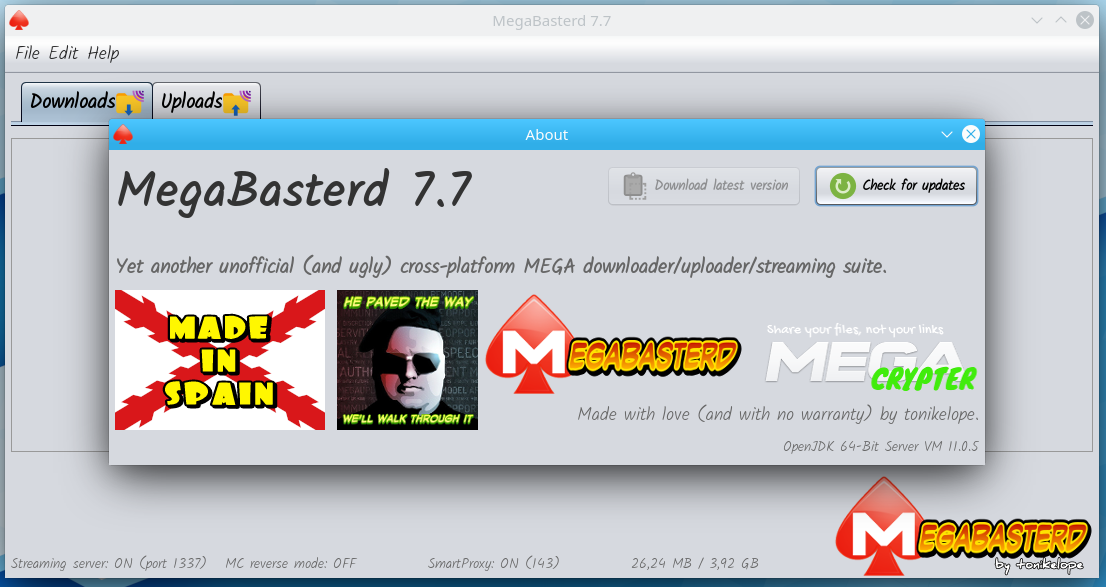
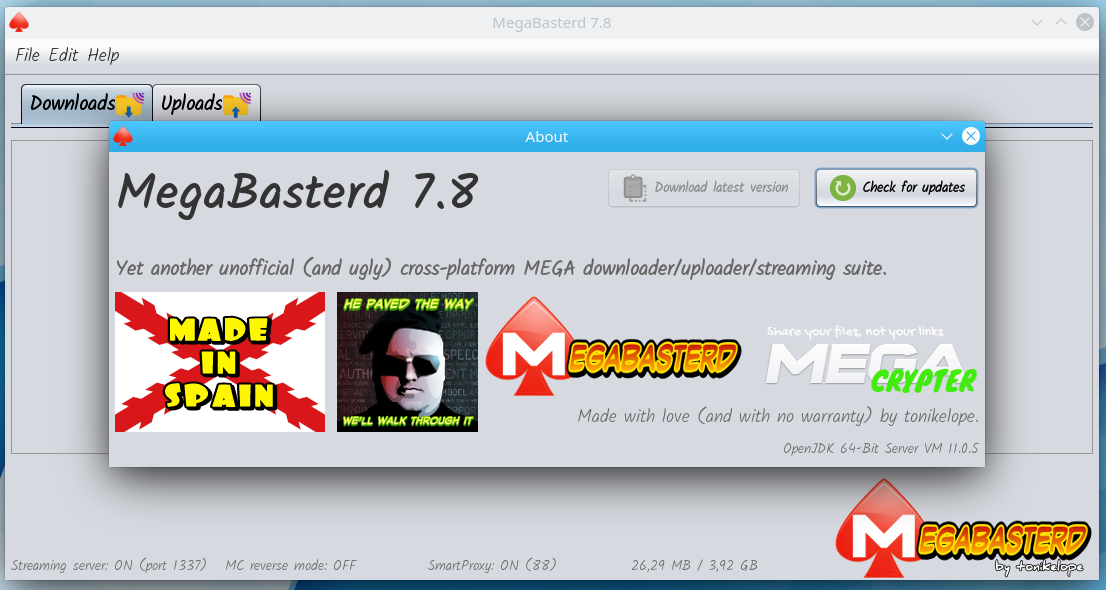
7.8
- Ghost downloads resume fix 2 (Folder Links)

diff --git a/src/main/java/com/tonikelope/megabasterd/Download.java b/src/main/java/com/tonikelope/megabasterd/Download.java
@@ -976,6 +976,7 @@ public class Download implements Transference, Runnable, SecureSingleThreadNotif
         try {
             if (_file_name == null) {
 
+                //New single file links
                 file_info = getMegaFileMetadata(_url, getMain_panel().getView(), retry);
 
                 if (file_info != null) {
@@ -1001,12 +1002,26 @@ public class Download implements Transference, Runnable, SecureSingleThreadNotif
 
                     } catch (SQLException ex) {
 
-                        _status_error = "Error registering download: file is already downloading.";
+                        _status_error = "Error registering download: " + ex.getMessage() + " file is already downloading?";
                     }
 
                 }
             } else {
-                _provision_ok = true;
+
+                //Resuming single file links and new/resuming folder links
+                try {
+
+                    deleteDownload(_url); //If resuming
+
+                    insertDownload(_url, _ma.getFull_email(), _download_path, _file_name, _file_key, _file_size, _file_pass, _file_noexpire, _custom_chunks_dir);
+
+                    _provision_ok = true;
+
+                } catch (SQLException ex) {
+
+                    _status_error = "Error registering download: " + ex.getMessage();
+
+                }
             }
 
         } catch (APIException ex) {
@@ -1232,14 +1247,14 @@ public class Download implements Transference, Runnable, SecureSingleThreadNotif
 
                         _finalizing = true;
 
-                        swingInvokeAndWait(() -> {
+                        swingInvoke(() -> {
                             getView().getSlots_spinner().setEnabled(false);
 
                             getView().getSlots_spinner().setValue((int) getView().getSlots_spinner().getValue() - 1);
                         });
 
                     } else if (!_finalizing) {
-                        swingInvokeAndWait(() -> {
+                        swingInvoke(() -> {
                             getView().getSlots_spinner().setEnabled(true);
                         });
                     }
@@ -1251,7 +1266,7 @@ public class Download implements Transference, Runnable, SecureSingleThreadNotif
 
                     getView().printStatusNormal("Download paused!");
 
-                    swingInvokeAndWait(() -> {
+                    swingInvoke(() -> {
                         getView().getPause_button().setText(LabelTranslatorSingleton.getInstance().translate("RESUME DOWNLOAD"));
 
                         getView().getPause_button().setEnabled(true);

diff --git a/src/main/java/com/tonikelope/megabasterd/Upload.java b/src/main/java/com/tonikelope/megabasterd/Upload.java
@@ -1134,14 +1134,14 @@ public class Upload implements Transference, Runnable, SecureSingleThreadNotifia
 
                     _finalizing = true;
 
-                    swingInvokeAndWait(() -> {
+                    swingInvoke(() -> {
                         getView().getSlots_spinner().setEnabled(false);
 
                         getView().getSlots_spinner().setValue((int) getView().getSlots_spinner().getValue() - 1);
                     });
 
                 } else if (!_finalizing) {
-                    swingInvokeAndWait(() -> {
+                    swingInvoke(() -> {
                         getView().getSlots_spinner().setEnabled(true);
                     });
                 }
@@ -1150,7 +1150,7 @@ public class Upload implements Transference, Runnable, SecureSingleThreadNotifia
 
                     getView().printStatusNormal("Upload paused!");
 
-                    swingInvokeAndWait(() -> {
+                    swingInvoke(() -> {
                         getView().getPause_button().setText(LabelTranslatorSingleton.getInstance().translate("RESUME UPLOAD"));
                         getView().getPause_button().setEnabled(true);
                     });

diff --git a/src/main/java/com/tonikelope/megabasterd/MainPanel.java b/src/main/java/com/tonikelope/megabasterd/MainPanel.java
@@ -55,7 +55,7 @@ import javax.swing.UIManager;
  */
 public final class MainPanel {
 
-    public static final String VERSION = "7.7";
+    public static final String VERSION = "7.8";
     public static final int THROTTLE_SLICE_SIZE = 16 * 1024;
     public static final int DEFAULT_BYTE_BUFFER_SIZE = 16 * 1024;
     public static final int STREAMER_PORT = 1337;
